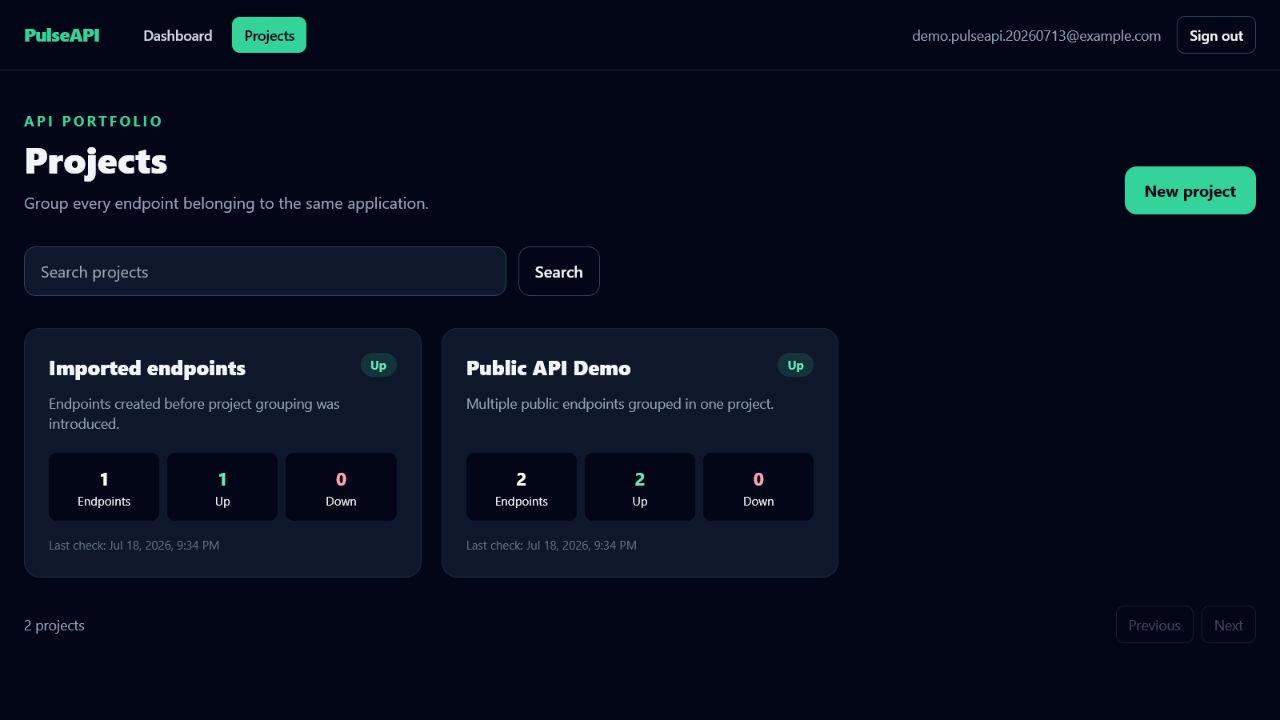
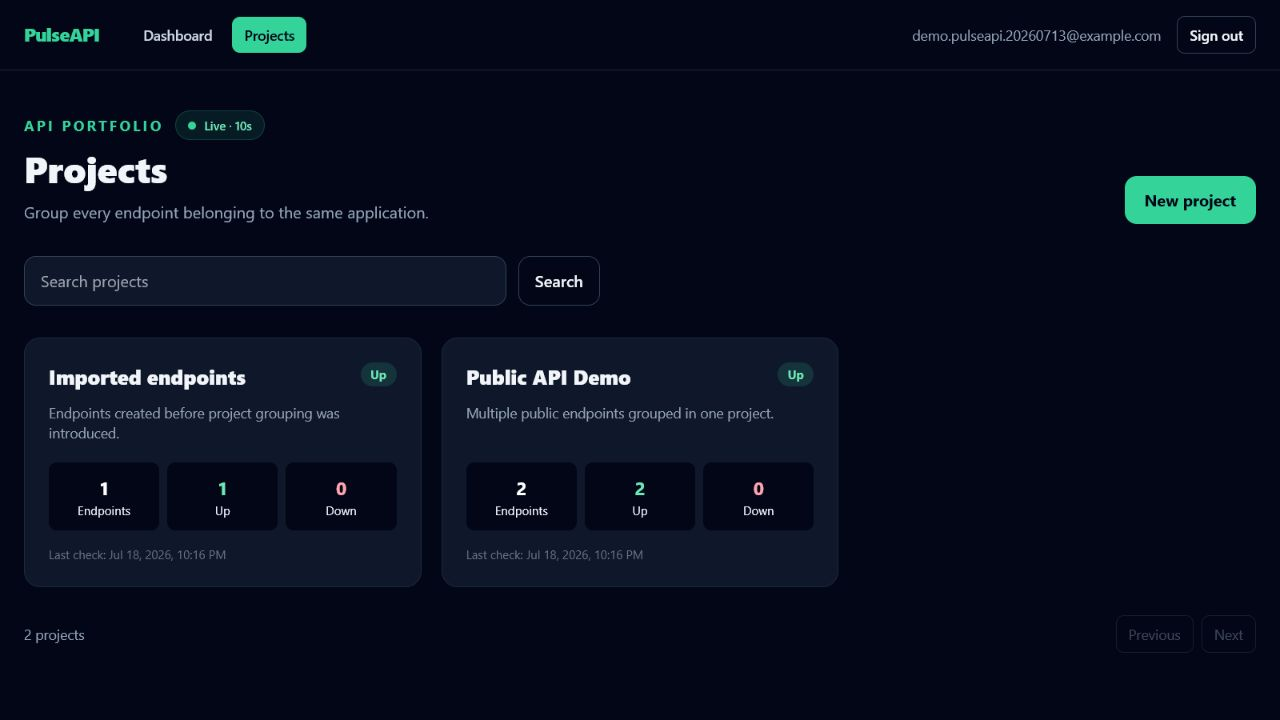
fix: keep monitoring views synchronized

diff --git a/frontend/src/lib/use-auto-refresh.js b/frontend/src/lib/use-auto-refresh.js
@@ -1,0 +1,47 @@
+import { useEffect, useRef } from "react";
+
+export const LIVE_REFRESH_INTERVAL_MS = 10_000;
+
+export function useAutoRefresh(refresh, intervalMs = LIVE_REFRESH_INTERVAL_MS) {
+  const refreshRef = useRef(refresh);
+  const inFlightRef = useRef(false);
+
+  useEffect(() => {
+    refreshRef.current = refresh;
+  }, [refresh]);
+
+  useEffect(() => {
+    let active = true;
+
+    async function runRefresh() {
+      if (!active || inFlightRef.current || document.visibilityState === "hidden") {
+        return;
+      }
+
+      inFlightRef.current = true;
+      try {
+        await refreshRef.current();
+      } catch {
+        // Each page owns how refresh errors are displayed.
+      } finally {
+        inFlightRef.current = false;
+      }
+    }
+
+    const intervalId = window.setInterval(runRefresh, intervalMs);
+    const handleFocus = () => runRefresh();
+    const handleVisibilityChange = () => {
+      if (document.visibilityState === "visible") runRefresh();
+    };
+
+    window.addEventListener("focus", handleFocus);
+    document.addEventListener("visibilitychange", handleVisibilityChange);
+
+    return () => {
+      active = false;
+      window.clearInterval(intervalId);
+      window.removeEventListener("focus", handleFocus);
+      document.removeEventListener("visibilitychange", handleVisibilityChange);
+    };
+  }, [intervalMs]);
+}

diff --git a/frontend/src/pages/projects/ProjectListPage.jsx b/frontend/src/pages/projects/ProjectListPage.jsx
@@ -1,8 +1,10 @@
 import { useEffect, useState } from "react";
 import { Link } from "react-router-dom";
 import { FormError } from "../../components/auth/FormError.jsx";
+import { LiveRefreshBadge } from "../../components/layout/LiveRefreshBadge.jsx";
 import { useAuth } from "../../lib/auth-context.jsx";
 import { formatDateTime } from "../../lib/formatters.js";
+import { useAutoRefresh } from "../../lib/use-auto-refresh.js";
 
 const healthStyles = {
   UP: "bg-emerald-400/15 text-emerald-300",
@@ -23,22 +25,24 @@ export function ProjectListPage() {
   const [loading, setLoading] = useState(true);
   const [error, setError] = useState(null);
 
-  useEffect(() => {
-    let active = true;
-    setLoading(true);
+  async function loadProjects(showLoading = true) {
+    if (showLoading) setLoading(true);
+    setError(null);
     const params = new URLSearchParams({ page: String(page), limit: "12", sortBy: "updatedAt", sortOrder: "desc" });
     if (search) params.set("search", search);
-    request(`/projects?${params}`)
-      .then((result) => {
-        if (active) {
-          setProjects(result.data);
-          setMeta(result.meta);
-        }
-      })
-      .catch((requestError) => active && setError(requestError))
-      .finally(() => active && setLoading(false));
-    return () => { active = false; };
-  }, [page, search]);
+    try {
+      const result = await request(`/projects?${params}`);
+      setProjects(result.data);
+      setMeta(result.meta);
+    } catch (requestError) {
+      setError(requestError);
+    } finally {
+      if (showLoading) setLoading(false);
+    }
+  }
+
+  useEffect(() => { loadProjects(); }, [page, search]);
+  useAutoRefresh(() => loadProjects(false));
 
   function applySearch(event) {
     event.preventDefault();
@@ -50,7 +54,10 @@ export function ProjectListPage() {
     <main className="mx-auto max-w-7xl px-6 py-10">
       <div className="flex flex-wrap items-end justify-between gap-4">
         <div>
-          <p className="text-sm font-bold uppercase tracking-[0.2em] text-emerald-400">API portfolio</p>
+          <div className="flex flex-wrap items-center gap-3">
+            <p className="text-sm font-bold uppercase tracking-[0.2em] text-emerald-400">API portfolio</p>
+            <LiveRefreshBadge />
+          </div>
           <h1 className="mt-2 text-4xl font-black">Projects</h1>
           <p className="mt-3 text-slate-400">Group every endpoint belonging to the same application.</p>
         </div>

diff --git a/frontend/src/pages/dashboard/DashboardPage.jsx b/frontend/src/pages/dashboard/DashboardPage.jsx
@@ -1,17 +1,27 @@
 import { useEffect, useState } from "react";
 import { Link } from "react-router-dom";
 import { FormError } from "../../components/auth/FormError.jsx";
+import { LiveRefreshBadge } from "../../components/layout/LiveRefreshBadge.jsx";
 import { useAuth } from "../../lib/auth-context.jsx";
 import { formatDateTime } from "../../lib/formatters.js";
+import { useAutoRefresh } from "../../lib/use-auto-refresh.js";
 
 export function DashboardPage() {
   const { user, request } = useAuth();
   const [summary, setSummary] = useState(null);
   const [error, setError] = useState(null);
 
-  useEffect(() => {
-    request("/dashboard/summary").then(setSummary).catch(setError);
-  }, []);
+  async function loadSummary() {
+    try {
+      setSummary(await request("/dashboard/summary"));
+      setError(null);
+    } catch (requestError) {
+      setError(requestError);
+    }
+  }
+
+  useEffect(() => { loadSummary(); }, []);
+  useAutoRefresh(loadSummary);
 
   const cards = summary
     ? [
@@ -28,7 +38,10 @@ export function DashboardPage() {
     <main className="mx-auto max-w-7xl px-6 py-10">
       <div className="flex flex-wrap items-end justify-between gap-4">
         <div>
-          <p className="text-sm font-bold uppercase tracking-[0.2em] text-emerald-400">Live overview</p>
+          <div className="flex flex-wrap items-center gap-3">
+            <p className="text-sm font-bold uppercase tracking-[0.2em] text-emerald-400">Live overview</p>
+            <LiveRefreshBadge />
+          </div>
           <h1 className="mt-2 text-4xl font-black tracking-tight">Welcome, {user.name}</h1>
           <p className="mt-3 text-slate-400">Project health, endpoint uptime, and recent failures in one place.</p>
         </div>

diff --git a/frontend/src/components/layout/LiveRefreshBadge.jsx b/frontend/src/components/layout/LiveRefreshBadge.jsx
@@ -1,0 +1,11 @@
+export function LiveRefreshBadge() {
+  return (
+    <span
+      className="inline-flex items-center gap-2 rounded-full border border-emerald-400/20 bg-emerald-400/10 px-3 py-1.5 text-xs font-semibold text-emerald-300"
+      title="Refreshes every 10 seconds and whenever you return to this tab"
+    >
+      <span className="h-2 w-2 animate-pulse rounded-full bg-emerald-400" />
+      Live · 10s
+    </span>
+  );
+}

diff --git a/frontend/src/pages/projects/ProjectDetailsPage.jsx b/frontend/src/pages/projects/ProjectDetailsPage.jsx
@@ -1,8 +1,10 @@
 import { useEffect, useState } from "react";
 import { Link, useNavigate, useParams } from "react-router-dom";
 import { FormError } from "../../components/auth/FormError.jsx";
+import { LiveRefreshBadge } from "../../components/layout/LiveRefreshBadge.jsx";
 import { useAuth } from "../../lib/auth-context.jsx";
 import { formatDateTime, formatInterval, healthClass, healthLabel } from "../../lib/formatters.js";
+import { useAutoRefresh } from "../../lib/use-auto-refresh.js";
 
 export function ProjectDetailsPage() {
   const { projectId } = useParams();
@@ -30,6 +32,7 @@ export function ProjectDetailsPage() {
     }
   }
   useEffect(() => { load(); }, [projectId]);
+  useAutoRefresh(load);
 
   async function toggle(endpoint) {
     setBusyId(endpoint.id);
@@ -63,7 +66,10 @@ export function ProjectDetailsPage() {
       <section className="mt-5 rounded-2xl border border-slate-800 bg-slate-900 p-8">
         <div className="flex flex-wrap items-start justify-between gap-5">
           <div>
-            <p className="text-sm font-bold uppercase tracking-[0.2em] text-emerald-400">Project</p>
+            <div className="flex flex-wrap items-center gap-3">
+              <p className="text-sm font-bold uppercase tracking-[0.2em] text-emerald-400">Project</p>
+              <LiveRefreshBadge />
+            </div>
             <h1 className="mt-2 text-4xl font-black">{project.name}</h1>
             <p className="mt-3 max-w-2xl text-slate-400">{project.description || "No description provided."}</p>
           </div>

diff --git a/frontend/src/pages/monitors/MonitorDetailsPage.jsx b/frontend/src/pages/monitors/MonitorDetailsPage.jsx
@@ -2,6 +2,7 @@ import { useEffect, useState } from "react";
 import { Link, useNavigate, useParams } from "react-router-dom";
 import { FormError } from "../../components/auth/FormError.jsx";
 import { ResponseTimeChart } from "../../components/charts/ResponseTimeChart.jsx";
+import { LiveRefreshBadge } from "../../components/layout/LiveRefreshBadge.jsx";
 import { useAuth } from "../../lib/auth-context.jsx";
 import {
   formatDateTime,
@@ -9,6 +10,7 @@ import {
   healthClass,
   healthLabel,
 } from "../../lib/formatters.js";
+import { useAutoRefresh } from "../../lib/use-auto-refresh.js";
 
 export function MonitorDetailsPage() {
   const { monitorId } = useParams();
@@ -48,6 +50,7 @@ export function MonitorDetailsPage() {
   useEffect(() => {
     loadData();
   }, [monitorId, historyPage, historyResult, statsRange]);
+  useAutoRefresh(() => loadData(false));
 
   async function toggleStatus() {
     setBusy(true);
@@ -121,6 +124,7 @@ export function MonitorDetailsPage() {
               <h1 className="text-3xl font-black">{monitor.name}</h1>
               <span className={`rounded-full px-2.5 py-1 text-xs font-bold ${monitor.status === "ACTIVE" ? "bg-emerald-400/15 text-emerald-300" : "bg-amber-400/15 text-amber-200"}`}>{monitor.status}</span>
               <span className={`rounded-full px-2.5 py-1 text-xs font-bold ${healthClass(monitor.isUp)}`}>{healthLabel(monitor.isUp)}</span>
+              <LiveRefreshBadge />
             </div>
             <a className="mt-3 block break-all text-sm text-sky-300 hover:text-sky-200" href={monitor.url} target="_blank" rel="noreferrer">{monitor.url}</a>
           </div>

diff --git a/frontend/src/lib/api-client.js b/frontend/src/lib/api-client.js
@@ -13,6 +13,7 @@ export class ApiError extends Error {
 export async function apiRequest(path, { accessToken, ...options } = {}) {
   const response = await fetch(`${env.apiBaseUrl}${path}`, {
     ...options,
+    cache: options.cache ?? "no-store",
     credentials: "include",
     headers: {
       ...(options.body ? { "Content-Type": "application/json" } : {}),

diff --git a/README.md b/README.md
@@ -50,6 +50,7 @@ Verified on July 18, 2026:
 - Phase 5: automatic scheduling with batching, concurrency limits, overlap protection, and restart recovery
 - Phase 6: paginated history, filters, uptime and latency statistics, charts, failures, and dashboard summary
 - Project hierarchy: owned Projects group multiple independently scheduled Endpoints
+- Live monitoring UI: visible operational screens refresh every 10 seconds and immediately when the tab regains focus
 
 Incidents, notification delivery, and public status pages are outside the current MVP.
 
@@ -310,6 +311,8 @@ Each endpoint check:
 Failures are classified as `TIMEOUT`, `DNS`, `NETWORK`, `SSL`, `INVALID_STATUS`, `BLOCKED_URL`, or `UNKNOWN`. Internal technical details are not returned to clients.
 
 The scheduler polls every minute by default, selects active endpoints whose `nextCheckAt` is due, limits batch size and concurrency, skips in-flight endpoints, and prevents overlapping cycles. A cycle runs at startup so overdue checks resume after a restart.
+
+The dashboard, project portfolio, project details, and endpoint analytics request fresh data every 10 seconds while visible. Hidden tabs do not generate background traffic; returning to the tab triggers an immediate refresh. API GET requests use `no-store` so browser caching cannot leave monitoring data stale.
 
 ## Testing and verification
 